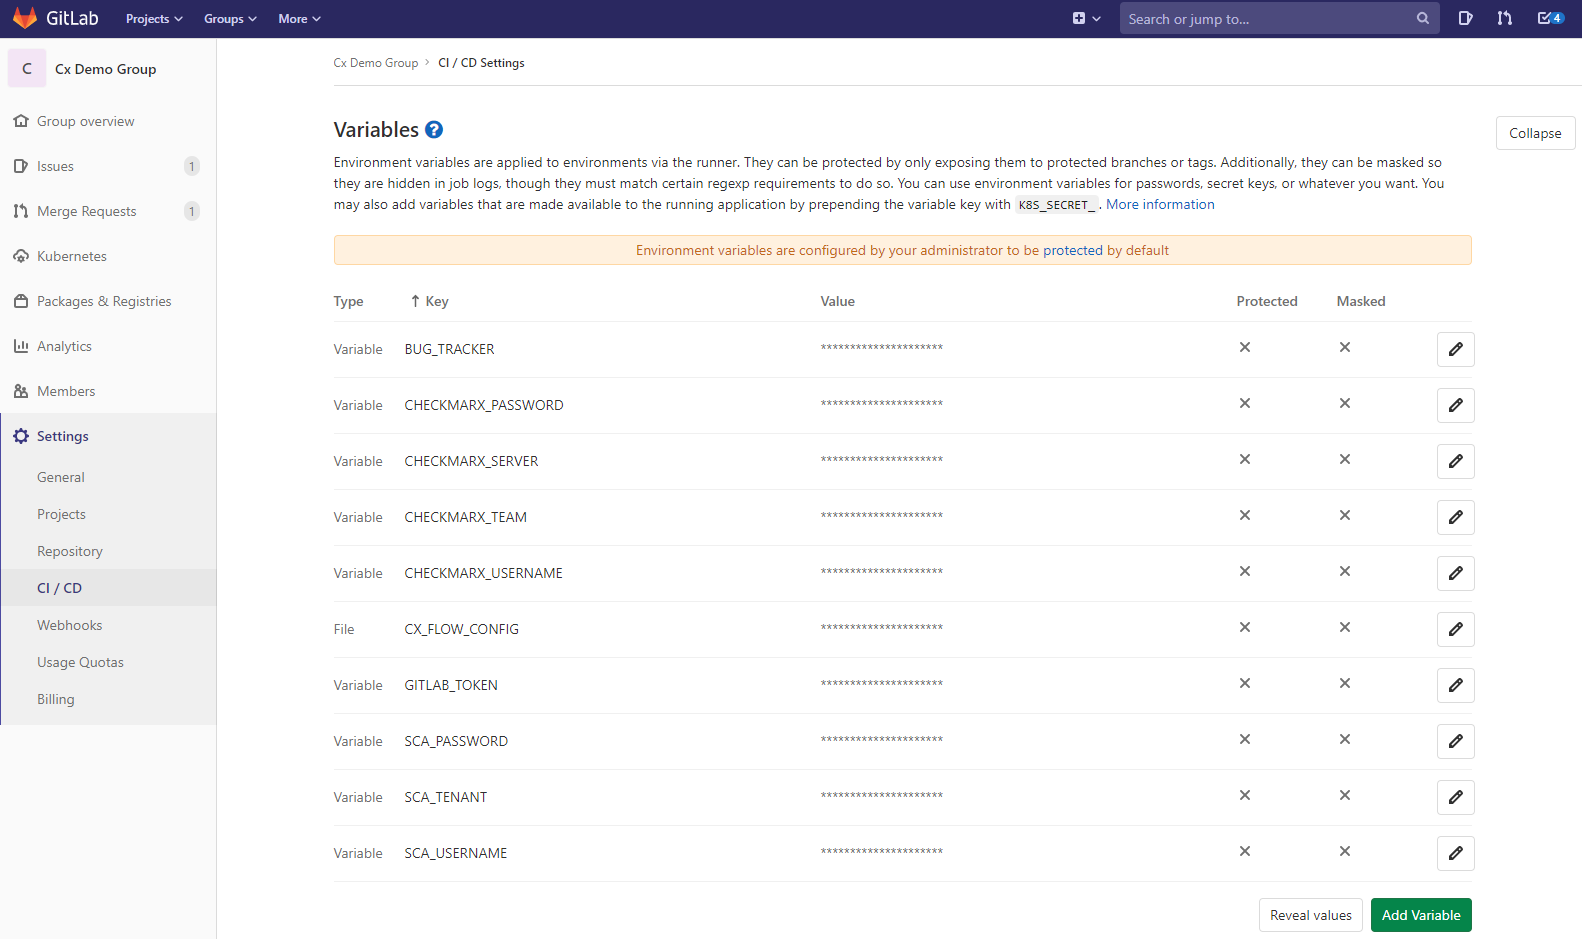
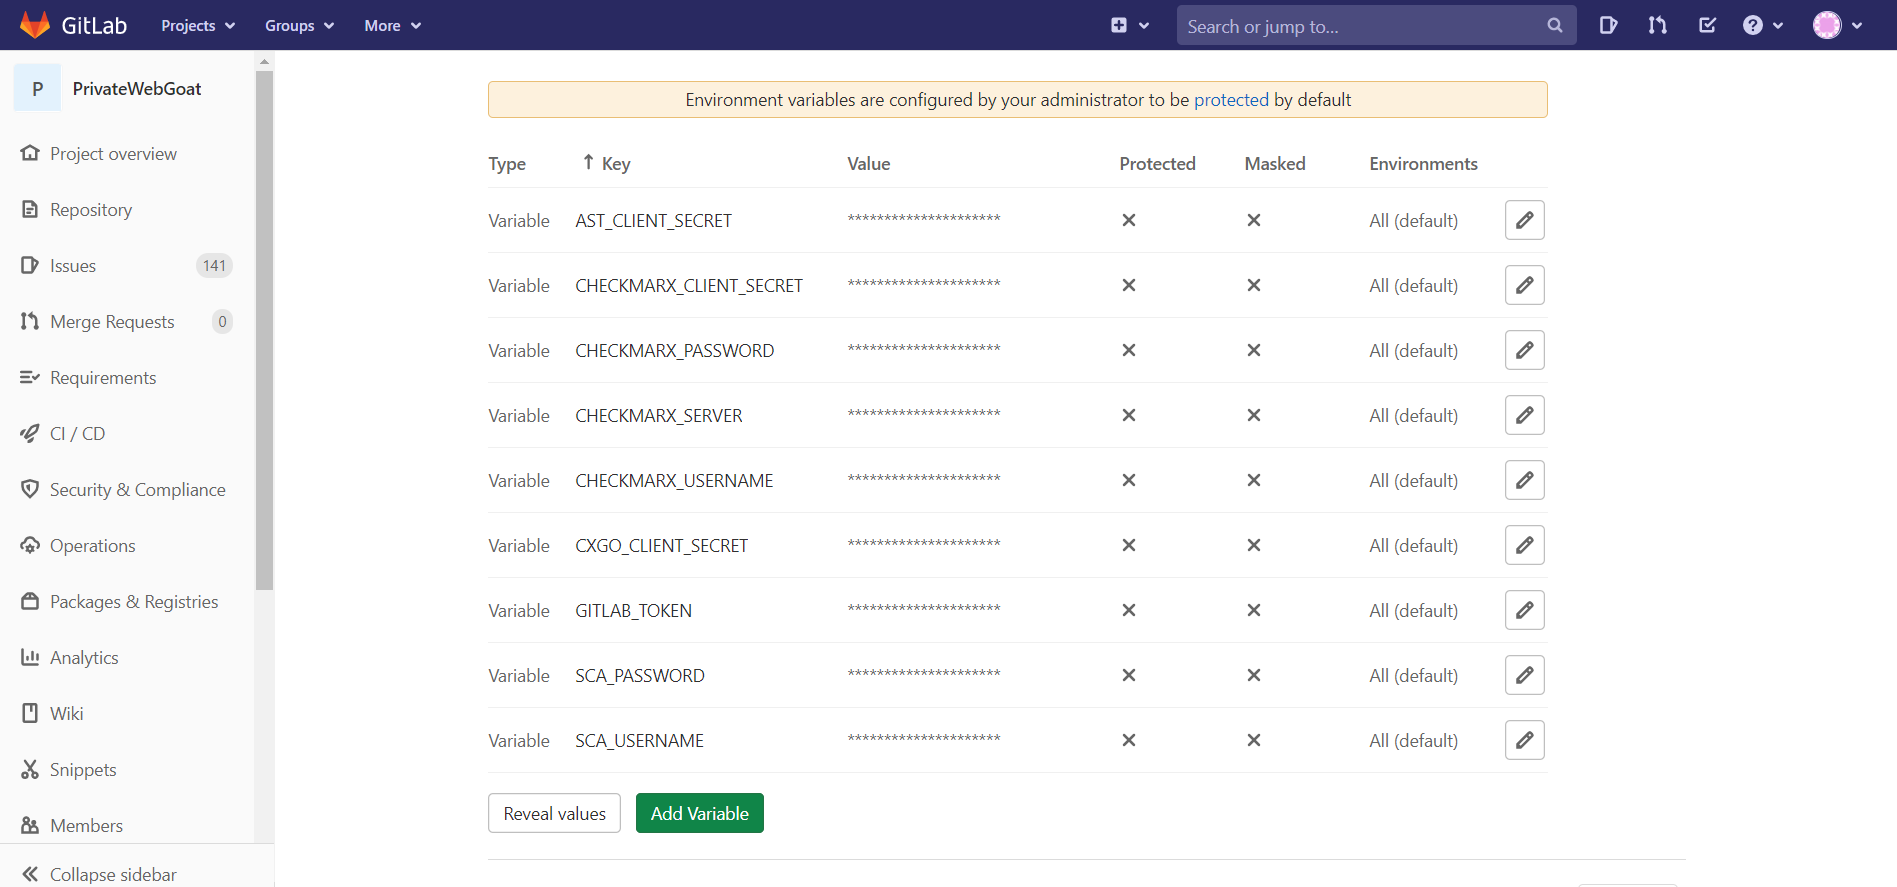
Updated the documentation for Gitlab CI/CD and added sample files.

diff --git a/docs/Labs.md b/docs/Labs.md
@@ -232,65 +232,36 @@ To review scan results within GitLab’s Security Dashboard, you need the Gold/U
 To allow for easy configuration, it is necessary to create environment variables with GitLab to run the integration.  For more information on GitLab CI/CD variables, visit here: [GitLab: CI/CD - Environment Variables](https://gitlab.com/help/ci/variables/README#gitlab-cicd-environment-variables)
 Edit the CI/CD variables under Settings → CI / CD → Variables and add the following variables for a CxSAST and/or CxSCA scan :
 
-` ! The key CX_FLOW_CONFIG variable must be of type "File" `
 
 [[/Images/gitlab_settings.png]]
 
-Variable     | Value 
+Variable/ Inputs     | Value 
 --------------------|-------------------
 GITLAB_TOKEN | <p>API token to create Merge Request Overview entries, should have “api” privileges. <br>To create a personal token, click your Gitlab profile in the upper right corner >settings <br><br>- Click Access Tokens and add a personal access token.Click Access Tokens and add a personal access token. <br>- Give the token api, read_user, write_repository, read_registry scopes. <br><br> For additional information on creating a Personal Access Token, refer to [GitLab: Personal Access Tokens](https://docs.gitlab.com/ee/user/profile/personal_access_tokens.html) </p> 
-BUG_TRACKER   (Type: Variable)| Type of bug tracking ('GitLabDashboard' or ‘GitLab’).  For vulnerabilities to be exported to GitLab’s Dashboard, use ‘GitLabDashboard’ and for vulnerabilities to be added to GitLab’s Issues, use ‘GitLab’  For more details on complete list of Bug Trackers, please refer to [CxFlow Configuration](https://github.com/checkmarx-ltd/cx-flow/wiki/Configuration) 
+CX_FLOW_BUG_TRACKER   (Type: Variable)| Type of bug tracking ('GitLabDashboard' or ‘GitLab’).  For vulnerabilities to be exported to GitLab’s Dashboard, use ‘GitLabDashboard’ and for vulnerabilities to be added to GitLab’s Issues, use ‘GitLab’  For more details on complete list of Bug Trackers, please refer to [CxFlow Configuration](https://github.com/checkmarx-ltd/cx-flow/wiki/Configuration) 
+CX_FLOW_ENABLED_VULNERABILITY_SCANNERS | Vulnerability Scanners (sast, sca, ast, cxgo). Multiple comma seperated values allowed.
 CHECKMARX_PASSWORD   (Type: Variable) | Password for CxSAST 
 CHECKMARX_SERVER   (Type: Variable) | The base URL of CxSAST Manager Server (i.e. https://checkmarx.company.com) 
 CHECKMARX_USERNAME   (Type: Variable) | User Name for the CxSAST Manager.  User must have ‘SAST Scanner’ privileges.  For more information on CxSAST roles, please refer to [CxSAST / CxOSA Roles and Permissions](https://checkmarx.atlassian.net/wiki/spaces/KC/pages/1178009601/CxSAST+CxOSA+Roles+and+Permissions+v9.0.0+and+up) 
-CX_FLOW_CONFIG   (Type: File)|  [See example below](#configfile)
-CHECKMARX_TEAM   (Type: Varia ble) | Checkmarx Team Name (i.e. /CxServer/teamname) 
+CHECKMARX_TEAM   (Type: Variable) | Checkmarx Team Name (i.e. /CxServer/teamname) 
+CHECKMARX_CLIENT_SECRET | Checkmarx OIDC Client Secret
 SCA_TENANT   (Type: Variable) | The name of the CxSCA Account (i.e. SCA-CompanyName).  **Only needed if you have a valid license for CxSCA** 
 SCA_USERNAME   (Type: Variable) | The username of the CxSCA Account.  **Only needed if you have a valid license for CxSCA**  
 SCA_PASSWORD   (Type: Variable) | The password of the CxSCA Account.  **Only needed if you have a valid license for CxSCA** 
+CXGO_CLIENT_SECRET | Client-Secret needed for AST Cloud (CxGo).
+AST_API_URL | API URL for AST scan
+AST_WEBAPPURL | WebApp URL for AST scan
+AST_CLIENT_ID | Client-ID configured within AST. 
+AST_CLIENT_SECRET | Client-Secret within AST.
+PARAMS | Any additional parameters for CxFlow. For a full list of all the parameters, check [here](https://github.com/checkmarx-ltd/cx-flow/wiki/Configuration)
 
-###### <a name="configfile">Configuration File example</a>
-`! enable-vulnerability-scanners: - sca and the sca block are only needed if you have a valid CxSCA license and tenant.`
+###### <a name="configfile">GitLab Configuration File example</a>
+
+The gitlab configuration file is stored at a remote location within the cxflow repo. It can be directly used as a template using the following syntax.
+
 ```yaml
-logging:
-  file:
-    name: cx-flow.log
+include: 'https://raw.githubusercontent.com/checkmarx-ltd/cx-flow/master/src/main/resources/samples/gitlab-config.yml'
 
-cx-flow:
-  bug-tracker:  ${BUG_TRACKER}
-  bug-tracker-impl:
-    - GitLab
-    - GitLabDashboard
-  filter-severity:
-    - High
-  mitre-url: https://cwe.mitre.org/data/definitions/%s.html
-  break-build: true
-  enabled-vulnerability-scanners:
-    - sast
-    - sca
-
-checkmarx:
-  version: 9.0
-  client-secret: 014DF517-39D1-4453-B7B3-9930C563627C
-  base-url: ${CHECKMARX_SERVER}
-  url: ${CHECKMARX_SERVER}/cxrestapi
-  portal-url: ${CHECKMARX_SERVER}/cxwebinterface/Portal/CxWebService.asmx
-  multi-tenant: true
-  incremental: true
-  scan-preset: Checkmarx Default
-  configuration: Default Configuration
-  scan-timeout: 120
-
-sca:
-  appUrl:  https://sca.scacheckmarx.com
-  apiUrl:  https://api.scacheckmarx.com
-  accessControlUrl:  https://platform.checkmarx.net
-
-gitlab:
-  api-url: https://gitlab.com/api/v4/
-  false-positive-label: false-positive
-  url: https://gitlab.com
-  file-path: ./gl-sast-report.json
 ```
 
 ##### [Top of Lab](#gitlabcicd)
@@ -300,49 +271,21 @@ The GitLab CI/CD pipeline is controlled by a file named ‘.gitlab-ci.yml’ loc
 `! It is suggested not to over-pollute your companies already existing '.gitlab-ci.yml' file.  Instead, create a new YAML file in the root directory named ‘.checkmarx.yml’ and include it in ‘.gitlab-ci.yml’`
 
 ` # Note that image is a docker container maintained by Checkmarx`
-#### .checkmarx.yml
+#### .checkmarx.yml (For SAST Scan)
 ```yaml
-image: docker:latest
-services:
-  - docker:dind
+include: 'https://raw.githubusercontent.com/checkmarx-ltd/cx-flow/master/src/main/resources/samples/gitlab-config.yml'
 
-.checkmarx_sast:
-  stage: test
-  image:
-    name: docker.io/checkmarx/cx-flow
-    entrypoint: ['']
-  script:
-    - cat ${CX_FLOW_CONFIG} > application.yml
-    - |
-      if [ "$CI_PIPELINE_SOURCE" == "merge_request_event" ]; then 
-        java -jar /app/cx-flow.jar --spring.config.location=./application.yml \
-          --scan \
-          --cx-team="${CHECKMARX_TEAM}" \
-          --cx-project="${CI_PROJECT_NAME}-${CI_COMMIT_REF_NAME}" \
-          --app="${CI_PROJECT_NAME}" \
-          --project-id=${CI_PROJECT_ID} \
-          --merge-id=${CI_MERGE_REQUEST_IID} \
-          --bug-tracker=GITLABMERGE \
-          --cx-flow.break-build=false \
-          --f=.
-      else
-        java -jar /app/cx-flow.jar --spring.config.location=./application.yml \
-          --scan \
-          --cx-team="${CHECKMARX_TEAM}" \
-          --cx-project="${CI_PROJECT_NAME}-${CI_COMMIT_REF_NAME}" \
-          --app="${CI_PROJECT_NAME}-${CI_COMMIT_REF_NAME}" \
-          --branch="${CI_COMMIT_REF_NAME}" \
-          --repo-name="${CI_PROJECT_NAME}" \
-          --namespace="${CI_PROJECT_NAMESPACE##*/}" \
-          --cx-flow.break-build=false \
-          --f=.
-      fi
-  artifacts:
-    when: on_success
-    reports:
-      sast: gl-sast-report.json
-    paths:
-      - gl-sast-report.json
+variables:
+    CX_FLOW_ENABLED_VULNERABILITY_SCANNERS: sast
+    CX_TEAM: "/CxServer/MP"
+    CHECKMARX_USERNAME: $CX_USERNAME
+    CHECKMARX_PASSWORD: $CX_PASSWORD
+    CHECKMARX_BASE_URL: $CHECKMARX_SERVER
+    CHECKMARX_CLIENT_SECRET: $CHECKMARX_CLIENT_SECRET
+  
+stages:
+  - scan
+
 ```
 
 #### .gitlab-ci.yml
@@ -350,14 +293,8 @@ services:
 include: '.checkmarx.yml'
 
 stages:
-  - test
+  - scan
 
-checkmarx_sast:
-  stage: test
-  only:
-    - master
-    - merge_requests
-  extends: .checkmarx_sast
 ```
 
 ##### [Top of Lab](#gitlabcicd)
@@ -392,6 +329,14 @@ With the Gold/Ultimate tier for GitLab, or if the project is public, you can rev
 
 An example of vulnerabilities displayed in the Security Dashboard can be found in the below image.
 ##### [Top of Lab](#gitlabcicd)
+
+## Sample Gitlab config files for different scanners
+
+ * [Gitlab config for AST](/src/main/resources/samples/gitlab/gitlab-ast-sample.yml)
+ * [Gitlab config for SAST and SCA combined](/src/main/resources/samples/gitlab/gitlab-sast-sca-sample.yml)
+ * [Gitlab config for AST Cloud](/src/main/resources/samples/gitlab/gitlab-astcloud-sample.yml)
+ * [Github config for SCA](/src/main/resources/samples/gitlab/gitlab-sca-sample.yml)
+
 
 ## <a name="azure">Azure DevOps Webhook Lab</a>
 * [Prep](#adoprep)
